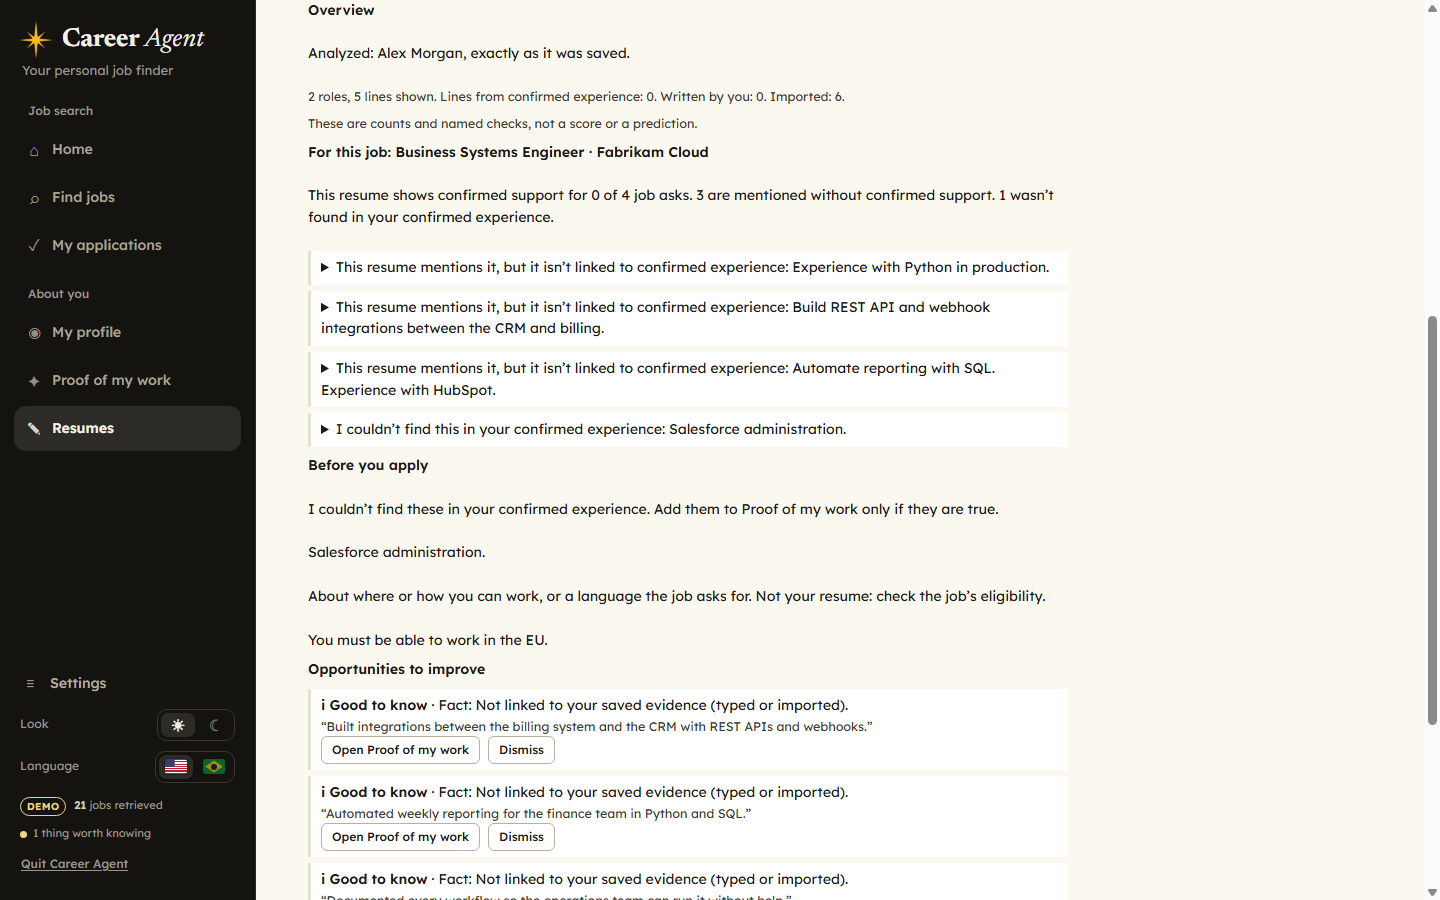
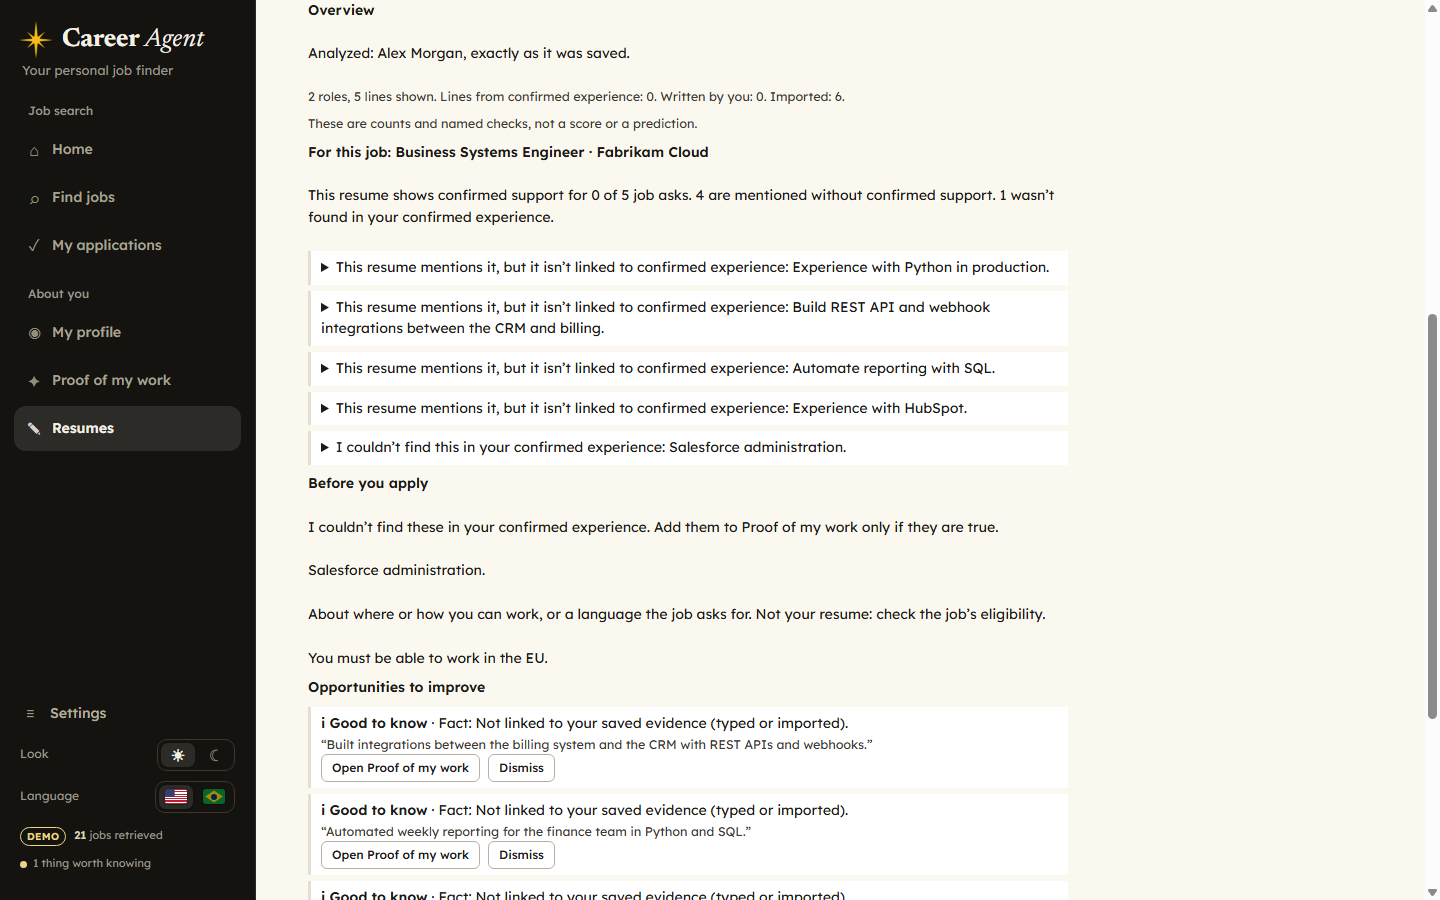
docs: final Beta 3 visuals
The hero and how-it-works banners are corrected in place with the
product's own fonts: no clipped title, no long dash, and the Beta 3
steps (Search Fit with eligibility apart, Resumes, Tailor + Analyze).
Analyze is recaptured from the demo with the invented job ad written one
ask per line, so each ask shows as its own item.

diff --git a/docs/assets/readme/ILLUSTRATIONS.md b/docs/assets/readme/ILLUSTRATIONS.md
@@ -7,29 +7,36 @@ secret.
 
 ## Illustrations
 
-- `hero.png` (2560 x 800): the README banner. Supplied by the owner for Beta 3.
-  It shows Find jobs with Search Fit percentages on invented roles and a
-  Resumes step (Master, a job version, Analyze, Export PDF). The roles,
-  counts and fits are fictional examples, not measured outcomes.
+- `hero.png` (2560 x 800): the README banner. Supplied by the owner for Beta 3,
+  then corrected in place with the product's own fonts: the "Find jobs" title
+  on one line, and no long dash in its text. It shows Find jobs with Search
+  Fit percentages on invented roles and a Resumes step (Master, a job version,
+  Analyze, Export PDF). The roles, counts and fits are fictional examples, not
+  measured outcomes.
 - `how-it-works.png` (2560 x 800): the workflow banner. Supplied by the owner
-  for Beta 3. Five steps: Find jobs, Search Fit, Why it fits, Resumes,
-  Applications. It does not claim automatic applications, hiring outcomes or
-  that an AI decides fit or eligibility.
+  for Beta 3, then corrected in place the same way: the subtitle on one line,
+  no long dash, and the steps of Beta 3. Five steps: Find jobs, Search Fit
+  (eligibility checked apart), Resumes, Tailor + Analyze, Applications. It
+  does not claim automatic applications, hiring outcomes or that an AI decides
+  fit or eligibility.
 
 Both replace the v0.2.0-beta.2 banners, which showed the retired Resume Tailor
 Beta. The README labels the illustrations as illustrations.
 
 ## Screenshots
 
-Captured from the demo (`Start-Demo.cmd`: synthetic jobs and an invented
-candidate, Alex Morgan) of a clean copy of the release code, at 1440 x 900,
-light theme, English. The demo candidate's resume was imported from a
+Captured from the demo (synthetic jobs and an invented candidate, Alex
+Morgan) of a clean copy of the release code, at 1440 x 900, light theme,
+English. All data in them is synthetic. The demo candidate's resume was imported from a
 synthetic DOCX through the product's own import and review.
 
 - `find-jobs.png`: Find jobs, cards view.
 - `resume-editor.png`: the Resumes editor beside its live preview.
-- `analyze.png`: Analyze for a job with a pasted, invented job ad.
+- `analyze.png`: Analyze for a job with a pasted, invented job ad written
+  one ask per line, as job ads are; each ask shows as its own item.
 
 They replace the v0.2.0-beta.2 screenshots (`discover.png`, `why.png`,
 `first-run.png`), which showed the previous interface and Resume Tailor Beta.
-Images are lossless PNG with metadata removed.
+Images are lossless PNG with metadata removed. Screenshots the owner supplied
+from a real installation were not added: they showed real career data and
+the previous interface.

diff --git a/README.es.md b/README.es.md
@@ -147,7 +147,7 @@ Las tres son capturas de la demo, con ofertas sintéticas y una persona candidat
 
 ![Analyze para una oferta: conteos y hallazgos con nombre para cada requisito, brechas y una nota de elegibilidad aparte, nunca una puntuación](docs/assets/readme/analyze.png)
 
-![Ilustración del flujo: encontrar ofertas, Search Fit, por qué encaja, Resumes y postulaciones](docs/assets/readme/how-it-works.png)
+![Ilustración del flujo: encontrar ofertas, Search Fit con la elegibilidad aparte, Resumes, adaptar y analizar, y postulaciones](docs/assets/readme/how-it-works.png)
 
 *Ilustración del flujo, no una captura de pantalla.*
 

diff --git a/README.pt-BR.md b/README.pt-BR.md
@@ -148,7 +148,7 @@ As três são capturas da demonstração, com vagas sintéticas e uma pessoa can
 
 ![Analisar para uma vaga: contagens e achados com nome para cada pedido, lacunas e uma nota de elegibilidade separada, nunca uma nota](docs/assets/readme/analyze.png)
 
-![Ilustração do fluxo: encontrar vagas, Search Fit, por que combina, Currículos e Candidaturas](docs/assets/readme/how-it-works.png)
+![Ilustração do fluxo: encontrar vagas, Search Fit com a elegibilidade separada, Currículos, adaptar e analisar, e Candidaturas](docs/assets/readme/how-it-works.png)
 
 *Ilustração do fluxo, não uma captura de tela.*
 

diff --git a/README.md b/README.md
@@ -146,7 +146,7 @@ All three are captures of the demo, with synthetic jobs and an invented candidat
 
 ![Analyze for a job: counts and named findings for each ask, gaps, and an eligibility note kept apart, never a score](docs/assets/readme/analyze.png)
 
-![Workflow illustration: find jobs, Search Fit, why it fits, Resumes and Applications](docs/assets/readme/how-it-works.png)
+![Workflow illustration: find jobs, Search Fit with eligibility kept apart, Resumes, Tailor and Analyze, and Applications](docs/assets/readme/how-it-works.png)
 
 *Workflow illustration, not a screenshot.*
 
